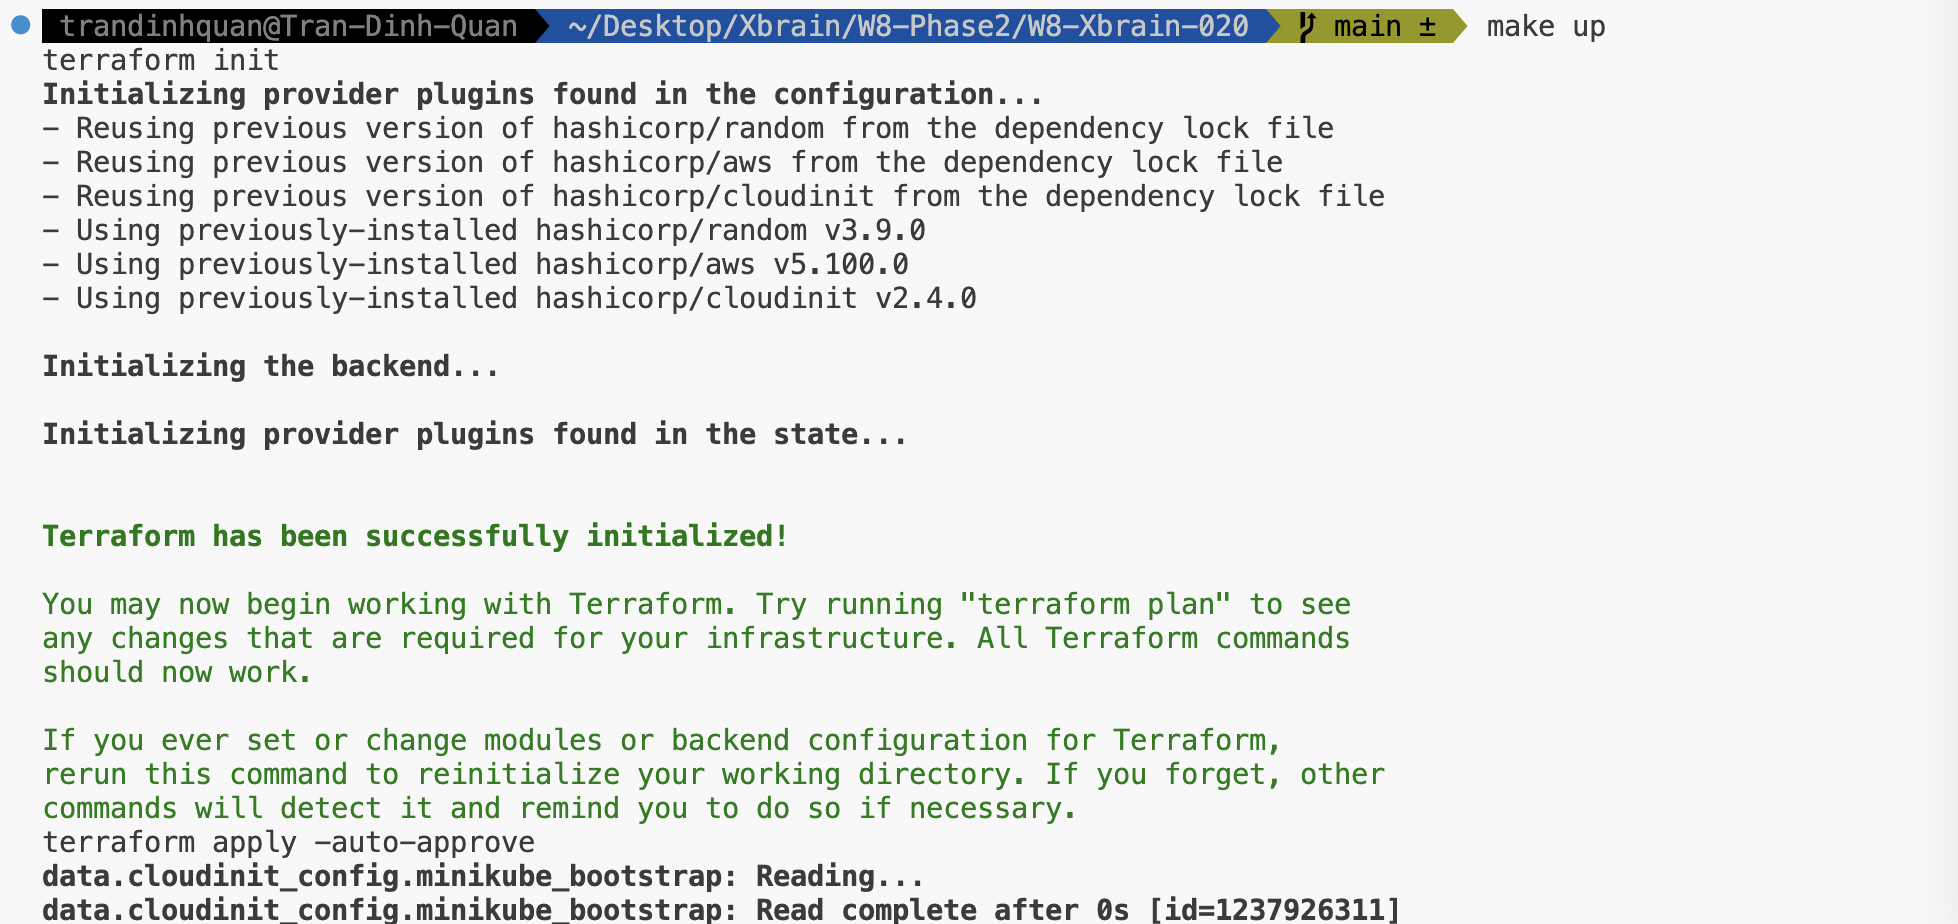
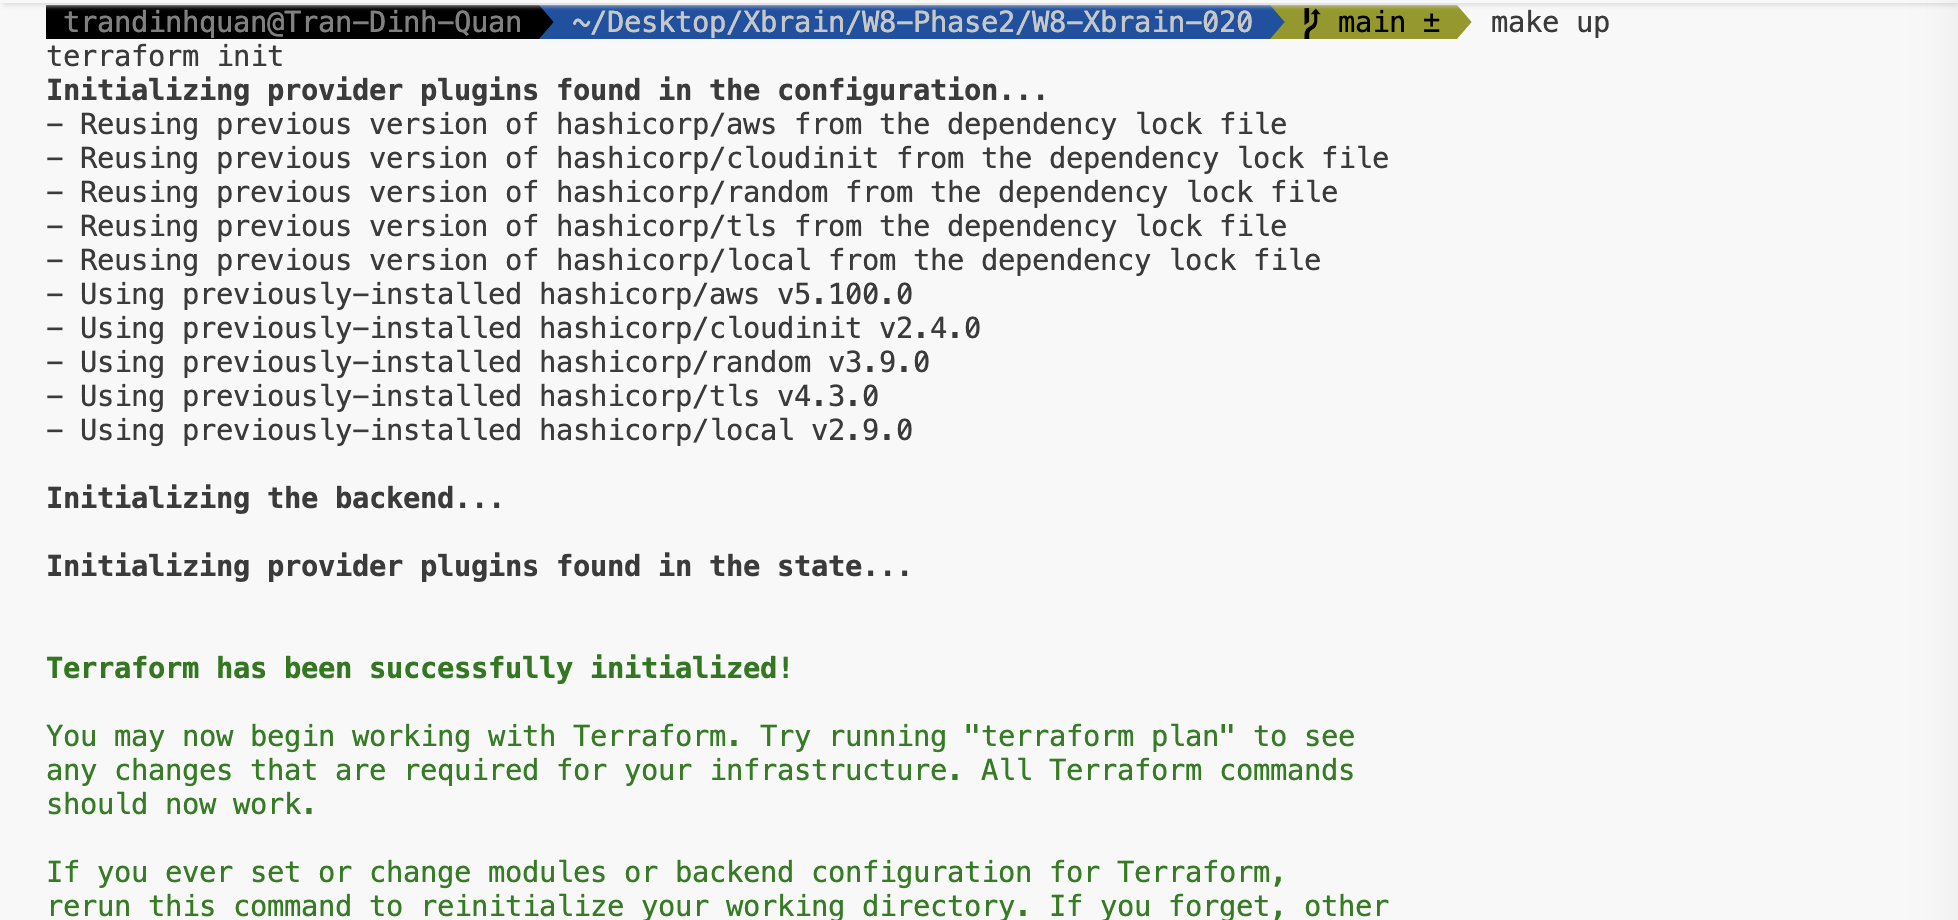
update terraform routing and evidence docs

Changed region(s): [[0.0, 0.0, 0.8412, 0.487], [0.0, 0.7913, 0.7165, 1.0], [0.0, 0.5174, 0.6854, 0.7609]]

diff --git a/README.md b/README.md
@@ -4,7 +4,7 @@ Terraform 1-click demo: tao EC2, chay minikube ben trong, deploy nginx `Welcome 
 
 ## Chay
 
-Yeu cau: Terraform `>= 1.5`, AWS credentials, Route53 hosted zone `gavinxbrain.online`.
+Yeu cau: Terraform `>= 1.5`, AWS credentials.
 
 ```bash
 make up
@@ -16,19 +16,31 @@ Lay URL:
 terraform output app_url
 ```
 
-Mac dinh:
+Mac dinh `app_url` la ALB DNS name, nen khong can co domain rieng. Vi du:
 
 ```text
-http://gavinxbrain.online
+http://<alb-dns-name>.ap-southeast-1.elb.amazonaws.com
 ```
 
 ALB co the mat vai phut de healthy vi EC2 can cai Docker, minikube va pull image.
+
+SSH key duoc Terraform tao tu dong tai:
+
+```text
+generated/xbrain-minikube
+```
+
+SSH vao EC2:
+
+```bash
+$(terraform output -raw ssh_command)
+```
 
 ## Kien truc
 
 ```text
 Internet
-  -> Route53 A alias
+  -> Route53 A alias (optional)
   -> Public ALB :80
   -> EC2 :30080
   -> socat forward
@@ -40,27 +52,47 @@ Internet
 ## Thiet ke
 
 - EC2 dung minikube Docker driver de giu bai demo gon va dung yeu cau app nam trong Kubernetes.
+- Terraform tu tao SSH key pair va gan vao EC2 de co the test/debug K8s ngay sau khi apply.
 - ALB forward vao EC2 port `30080`; Kubernetes Service dung `NodePort` cung port nay.
 - `socat` chi bridge traffic tu EC2 host vao IP cua minikube node.
-- Route53 tao domain public tro ve ALB.
+- Route53 la optional; neu khong cau hinh domain thi dung truc tiep ALB DNS.
 
 ## Provider wire
 
 Repo dung >=2 provider:
 
-- `aws`: VPC, subnet, EC2, security group, ALB, target group, listener, Route53.
+- `aws`: VPC, subnet, EC2, security group, ALB, target group, listener, optional Route53.
 - `cloudinit`: render bootstrap script va Kubernetes manifest vao `aws_instance.user_data_base64`.
 - `random`: tao suffix tranh trung ten resource.
+- `tls`: tao SSH key pair.
+- `local`: ghi private key vao `generated/xbrain-minikube`.
 
 Wire chinh: `data.cloudinit_config.minikube_bootstrap.rendered` duoc truyen vao `aws_instance.minikube_host.user_data_base64`, nen Terraform tao ha tang AWS va bootstrap minikube/app trong cung mot lan apply.
 
 ## Tuy bien
 
+Gioi han SSH theo public IP cua ban:
+
 ```bash
 terraform apply -auto-approve \
   -var='aws_region=ap-southeast-1' \
   -var='instance_type=t3.micro' \
-  -var='domain_name=gavinxbrain.online'
+  -var='allowed_ssh_cidr=x.x.x.x/32'
+```
+
+Neu co domain va public hosted zone Route53, apply them bien domain:
+
+```bash
+terraform apply -auto-approve \
+  -var='route53_zone_name=your-domain.com' \
+  -var='domain_name=your-domain.com' \
+  -var='allowed_ssh_cidr=x.x.x.x/32'
+```
+
+Sau do `terraform output app_url` se tra ve:
+
+```text
+http://your-domain.com
 ```
 
 ## Don dep
@@ -70,15 +102,6 @@ make destroy
 ```
 
 ## Evidence
-
-Anh/video bang chung luu trong folder `evidence/`.
-
-Can co 4 anh:
-
-- `evidence/terraform-init-success.png`: ket qua `terraform init` thanh cong.
-- `evidence/terraform-plan-success.png`: ket qua `terraform plan` thanh cong.
-- `evidence/terraform-apply-success.png`: ket qua `terraform apply` thanh cong va hien outputs.
-- `evidence/alb-url-success.png`: trinh duyet mo `http://gavinxbrain.online` va hien `Welcome Xbrain`.
 
 ### Terraform init
 
@@ -95,3 +118,11 @@ Can co 4 anh:
 ### ALB URL
 
 ![ALB URL success](evidence/alb-url-success.png)
+
+### Terraform apply Route53
+
+![Terraform apply Route53 success](evidence/terraform-apply-route53-success.png)
+
+### Route53 URL
+
+![Route53 URL success](evidence/route53-url-success.png)
